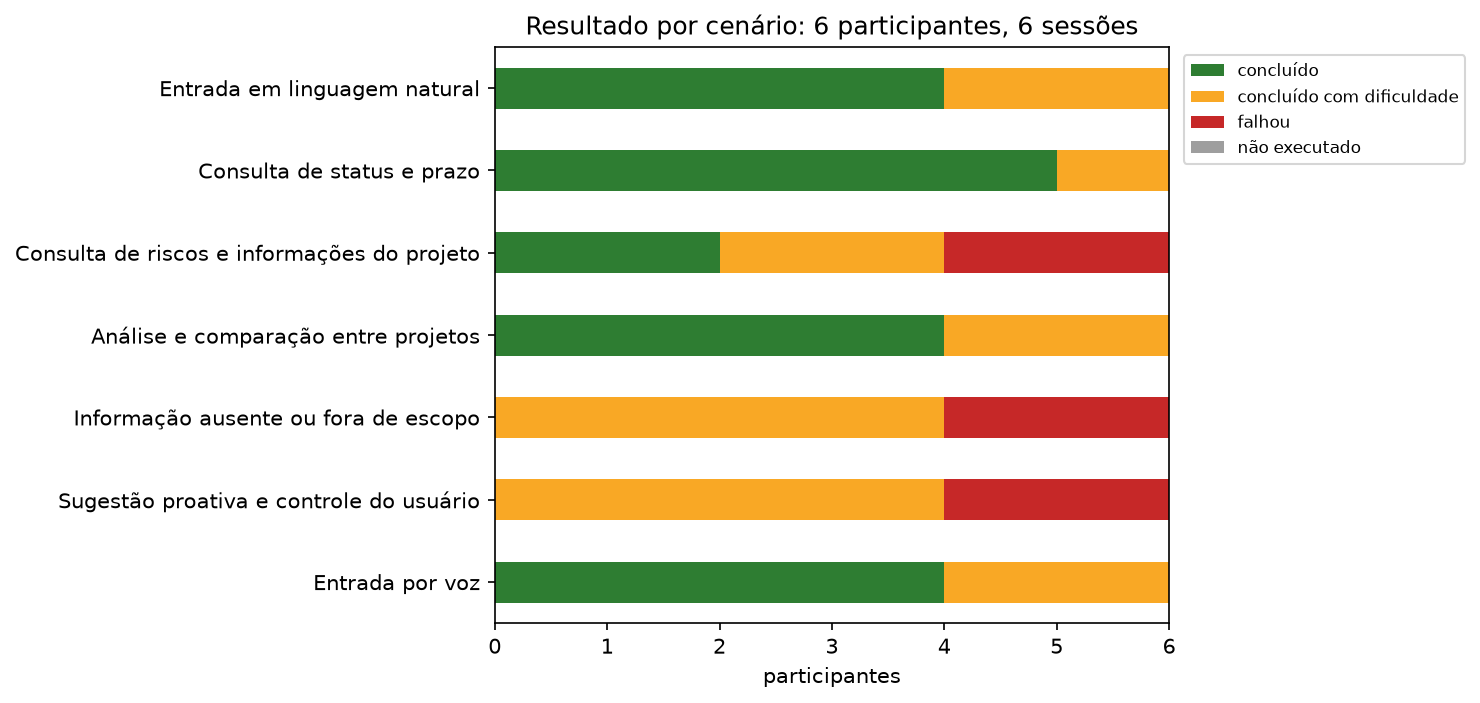
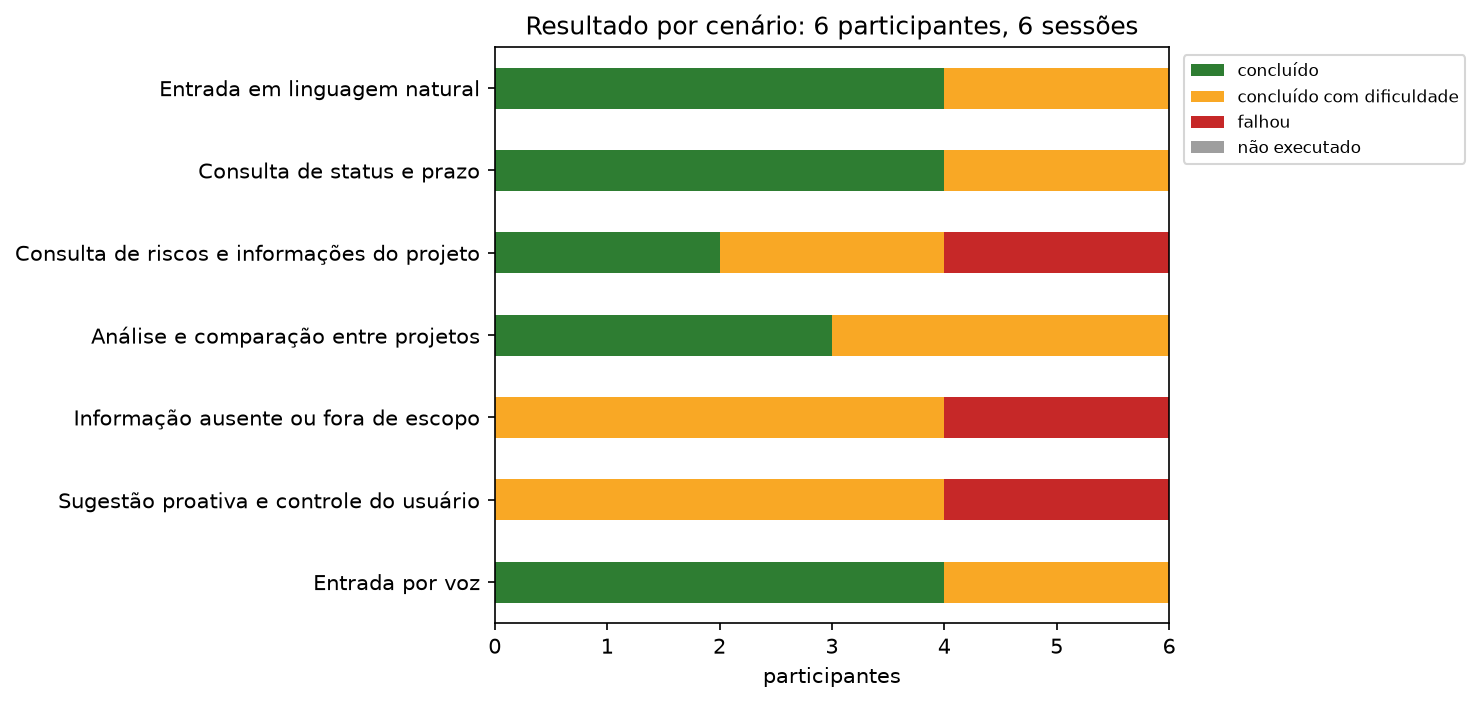
docs: corrigir inconsistências dos resultados de usabilidade (#236)

Changed region(s): [[0.6216, 0.2091, 0.7149, 0.2688], [0.5595, 0.4481, 0.6527, 0.5078]]

diff --git a/docs/Projeto.md b/docs/Projeto.md
@@ -5561,7 +5561,7 @@ Log da API na 3ª rodada, resumido sem identificadores ([`api-log-resumo.txt`](.
 | ID | Defeito | Tratamento |
 | --- | --- | --- |
 | DEF-RNF04-01 | Vigência, status e linha do extrato eram recuperados do banco e descartados antes do prompt; perguntas de cronograma recebiam "contexto insuficiente" | Corrigido em `build_rag_input`, com 10 testes de regressão; as perguntas afetadas passaram a responder as datas corretas |
-| DEF-RNF04-02 | Respostas truncadas pelo limite de tokens entregues como completas | Mecanismo confirmado nas rodadas do RNF05: 36 de 451 respostas (8,0%) na 2ª e 50 de 860 (5,8%) na 3ª terminaram por limite de tokens no caminho do OpenRouter, porque o raciocínio do modelo consome o mesmo orçamento de 512 tokens do texto. O adaptador passou a registrar cada ocorrência em log. Nenhuma das 35 respostas coletadas pelo Gemini direto terminou cortada. Depois do teste de usabilidade, em que uma resposta chegou vazia (Seção 9.3.2), o limite passou a 1024 tokens e a resposta interrompida passou a vir com um aviso ao usuário; no reteste, 0 de 38 respostas foram cortadas, contra 4 de 38 com o limite antigo, com cerca de 0,2 s a mais na mediana do tempo do modelo ([relatório](../src/backend/evidencias/reteste-truncamento/RELATORIO.md)). As rodadas do RNF05 foram medidas com o limite de 512 |
+| DEF-RNF04-02 | Respostas truncadas pelo limite de tokens entregues como completas | Mecanismo confirmado nas rodadas do RNF05: 36 de 451 respostas (8,0%) na 2ª e 50 de 860 (5,8%) na 3ª terminaram por limite de tokens no caminho do OpenRouter, porque o raciocínio do modelo consome o mesmo orçamento de 512 tokens do texto. O adaptador passou a registrar cada ocorrência em log. Nenhuma das 35 respostas coletadas pelo Gemini direto terminou cortada. Depois do teste de usabilidade, em que duas respostas chegaram vazias (Seção 9.3.2), o limite passou a 1024 tokens e a resposta interrompida passou a vir com um aviso ao usuário; no reteste, 0 de 38 respostas foram cortadas, contra 4 de 38 com o limite antigo, com cerca de 0,2 s a mais na mediana do tempo do modelo ([relatório](../src/backend/evidencias/reteste-truncamento/RELATORIO.md)). As rodadas do RNF05 foram medidas com o limite de 512 |
 | DEF-RNF05-01 | O Gemini no *Free Tier*, provedor da bancada, tem piso de 14,7 s a 37,7 s por chamada trivial, acima do teto do RNF05 | Característica da bancada, não do produto: o *Free Tier* é usado para não gerar custo, e o ambiente do Metrô usará o Copilot Studio com modelos GPT. As rodadas do RNF05 foram medidas com provedor pago. Ver Seção 3.2.2 |
 | DEF-RNF05-02 | A gravação da auditoria do RNF03 é síncrona e fica no caminho da resposta. Na 2ª rodada, sob carga, a distância entre o P95 do cliente e o do pipeline foi de 4,1 s, e, sem limite de tempo nas consultas ao banco, uma gravação presa segurou uma resposta por mais de 60 s | Aplicados antes da 3ª rodada: limite de 5 s por consulta ao banco (`statement_timeout`) e *keepalive* de TCP nas conexões, com 9 testes. Na 3ª rodada a distância caiu para 1,8 s, sem erro. A gravação fora do caminho da resposta, por fila ou tarefa em segundo plano, fica para a mensageria prevista na Sprint 5: muda a semântica da auditoria verificada nos testes do RNF03 e é decisão do grupo |
 | — | Cada requisição abria duas conexões novas com o Supabase, cerca de 1 s cada | Pool de conexões: de 1.209 ms para 599 ms por acesso, ou cerca de 1,2 s a menos por requisição, com qualquer provedor de LLM |
@@ -5681,7 +5681,7 @@ Registrada na Sprint 4, antes das sessões com os participantes.
 
 **Instrução do cenário 6.** A instrução anterior, "Observe se o agente sugere um próximo passo e se a sugestão depende da sua confirmação", antecipava ao participante exatamente o que o cenário quer observar: quem é avisado de que haverá uma sugestão procura por ela, e a etapa deixa de medir se a interface a comunica sozinha. A instrução passa a descrever só a tarefa: "Você vai participar de uma reunião sobre o projeto PRJ-0442. Use o agente para se preparar." Consultas sobre situação, prazos, riscos ou marcos do projeto fazem o agente oferecer um próximo passo que depende da confirmação do usuário, e o observador registra se o participante o percebe sem aviso. Uma segunda instrução, lida só depois, pede que o participante ajuste o agente para responder apenas o que foi perguntado, o que observa se ele encontra o controle da proatividade (RF10). O modo proatividade começa ligado em todas as sessões. As demais instruções da planilha descrevem a tarefa sem antecipar o comportamento observado e foram mantidas. Nas sessões da Sprint 4, a planilha ainda trazia a instrução original do cenário 6, e foi ela a lida aos participantes; o resultado desse cenário é lido com essa ressalva na Seção 9.3.2.
 
-**SUS como dado descritivo.** O SUS mede a percepção global de usabilidade e não aponta problemas específicos; com cinco participantes, a média ainda é instável, porque só se estabiliza por volta de 12 a 14 respondentes. Por isso o plano não fixa meta de SUS para aprovar o sistema. O resultado é publicado com a nota de cada participante, a mediana e a amplitude, ao lado do perfil e da familiaridade declarada, e é lido junto da observação das tarefas, que é o que mostra onde cada pessoa hesitou, errou ou pediu ajuda.
+**SUS como dado descritivo.** O SUS mede a percepção global de usabilidade e não aponta problemas específicos; com cinco ou seis participantes, a média ainda é instável, porque só se estabiliza por volta de 12 a 14 respondentes. Por isso o plano não fixa meta de SUS para aprovar o sistema. O resultado é publicado com a nota de cada participante, a mediana e a amplitude, ao lado do perfil e da familiaridade declarada, e é lido junto da observação das tarefas, que é o que mostra onde cada pessoa hesitou, errou ou pediu ajuda.
 
 **Perfil de cada participante.** Cada participante recrutado é registrado com a vaga de perfil que preenche, a familiaridade com tecnologia e com agentes conversacionais e a faixa etária, sem dados que o identifiquem. A amostra precisa reunir ao menos uma pessoa de familiaridade baixa e uma de familiaridade alta com agentes conversacionais.
 
@@ -5712,12 +5712,12 @@ A sessão conduzida na bancada compartilhada ficou registrada na auditoria do RN
 
 | Cenário | ✅ Concluído | ⚠ Com dificuldade | ❌ Falhou | Leitura |
 | --- | :---: | :---: | :---: | --- |
-| 1. Entrada em linguagem natural | 4 | 2 | 0 | A pergunta em linguagem comum funcionou sem comando técnico; os dois participantes de familiaridade baixa procuraram um menu de comandos antes de digitar |
-| 2. Consulta de status e prazo | 5 | 1 | 0 | "me fale o prazo do projeto da linha azul" trouxe a vigência de 24/08 a 28/08/2026, com a fonte citada; um participante não identificou a fonte dentro do texto |
+| 1. Entrada em linguagem natural | 4 | 2 | 0 | A pergunta em linguagem comum funcionou sem comando técnico; entre os dois participantes de familiaridade baixa, um procurou um menu de comandos antes de digitar e o outro começou com uma pergunta de uma palavra e a reformulou |
+| 2. Consulta de status e prazo | 4 | 2 | 0 | "me fale o prazo do projeto da linha azul" trouxe a vigência de 24/08 a 28/08/2026, com a fonte citada; dois participantes não perceberam a fonte na primeira leitura, e um deles procurou o prazo no meio do texto |
 | 3. Consulta de riscos e informações do projeto | 2 | 2 | 2 | Duas respostas chegaram vazias, só com o aviso de dados fictícios (O7), e duas chegaram cortadas no meio da frase (O5) |
-| 4. Análise e comparação entre projetos | 4 | 2 | 0 | O agente declarou que a base tem um único projeto e os participantes seguiram; em uma sessão o comunicado de serviço foi tratado como projeto (O4) |
+| 4. Análise e comparação entre projetos | 3 | 3 | 0 | O agente declarou que a base tem um único projeto e os participantes seguiram; em uma sessão o comunicado de serviço foi tratado como projeto (O4), em outra o agente sugeriu uma comparação logo depois de recusá-la (O3), e um participante demorou a escolher os projetos por não saber o que havia na base |
 | 5. Informação ausente ou fora de escopo | 0 | 4 | 2 | O limite foi declarado para a Linha 5, mas perguntas curtas sobre temas que estão na base foram recusadas (O1); dois participantes só concluíram depois da dica do moderador |
-| 6. Sugestão proativa e controle do usuário | 0 | 4 | 2 | As sugestões aceitas responderam que as fontes eram insuficientes (O2) e o controle da proatividade não foi localizado sem ajuda por dois participantes (O8) |
+| 6. Sugestão proativa e controle do usuário | 0 | 4 | 2 | As sugestões aceitas responderam que as fontes eram insuficientes (O2) e dois participantes só concluíram a etapa de controle depois da dica do moderador (O8) |
 | 7. Entrada por voz | 4 | 2 | 0 | A transcrição preservou a intenção em todas as sessões (O6); dois participantes hesitaram em acionar o botão de áudio |
 
 Quatro dicas do moderador foram necessárias, todas nos cenários 5 e 6 e todas com participantes de familiaridade média ou baixa com agentes conversacionais. As etapas com mais problemas foram "entender a orientação recebida" no cenário 5 e "avaliar a utilidade da sugestão" no cenário 6, com seis registros de dificuldade ou falha cada.
@@ -5732,16 +5732,16 @@ Quatro dicas do moderador foram necessárias, todas nos cenários 5 e 6 e todas 
 
 | ID | Cenário | Severidade | Ocorrido | Tratamento |
 | --- | :---: | :---: | --- | --- |
-| O1 | 5 | média | "fale sobre os Objetos perdidos", "fale sobre o Bilhete digital" e "Bilhete digital", temas que estão na base, foram recusados pelo classificador, com confiança de 42% a 50%, e a orientação pediu para indicar um projeto; a recusa se repetiu nas seis sessões | Aceitar perguntas curtas sobre temas operacionais e orientar a reformulação com exemplos, sem exigir um projeto |
+| O1 | 5 | alta | "fale sobre os Objetos perdidos", "fale sobre o Bilhete digital" e "Bilhete digital", temas que estão na base, foram recusados pelo classificador, com confiança de 42% a 50%, e a orientação pediu para indicar um projeto; a recusa se repetiu nas seis sessões | Aceitar perguntas curtas sobre temas operacionais e orientar a reformulação com exemplos, sem exigir um projeto |
 | O2 | 6 | média | As sugestões foram oferecidas sem sustentação nas fontes: depois de uma pergunta sobre a Linha 5, o agente sugeriu identificar o gargalo do projeto e, aceita a sugestão, respondeu que as fontes eram insuficientes | Oferecer a sugestão só quando as fontes recuperadas sustentarem a ação |
 | O3 | 4 | baixa | Depois de declarar que só existe um projeto, o agente sugeriu adaptar a prática do projeto com melhor desempenho | Não oferecer sugestão comparativa quando a comparação foi recusada |
 | O4 | 4 | baixa | A resposta tratou o comunicado de serviço como projeto, e o participante passou a comparar comunicado com projeto | Indicar no prompt a entidade de cada fonte |
 | O5 | 7 | média | Respostas terminaram cortadas no meio da frase, pelo limite de tokens | Corrigido e retestado, com O7 |
 | O6 | 7 | cosmética | A transcrição registrou "Eu sou eu perdi um objeto"; a intenção foi preservada | — |
 | O7 | 3 | alta | Duas respostas chegaram vazias, só com o aviso de dados fictícios: o raciocínio do modelo consumiu o limite de 512 tokens antes do texto | Corrigido: limite de 1024 tokens e aviso ao usuário quando a resposta for interrompida. No reteste, 0 de 38 respostas cortadas, contra 4 de 38 com o limite antigo ([relatório](../src/backend/evidencias/reteste-truncamento/RELATORIO.md)) |
-| O8 | 6 | média | O controle da proatividade não foi localizado sem ajuda: dois participantes não encontraram onde pedir que o agente respondesse apenas o que foi perguntado | Tornar o controle da proatividade visível na própria conversa, junto da sugestão oferecida |
+| O8 | 6 | alta | O controle da proatividade e a confirmação da sugestão não foram percebidos sem ajuda: um participante não encontrou onde pedir que o agente respondesse apenas o que foi perguntado, e outro leu a sugestão como parte da resposta, sem perceber que era uma ação a confirmar | Tornar o controle da proatividade visível na própria conversa, junto da sugestão oferecida |
 
-O único defeito crítico, O7, foi corrigido e retestado. O1 a O4 e O8 entram como melhorias para a Sprint 5.
+O único defeito crítico, O7, foi corrigido e retestado. O1 e O8 são de severidade alta porque impediram a tarefa de dois participantes cada, que só concluíram a etapa depois da dica do moderador, mas não são defeitos críticos: nas duas, o agente não apresentou dado incorreto nem executou ação sem confirmação, e os outros quatro participantes concluíram o cenário. O1 a O4 e O8 entram como melhorias para a Sprint 5, com O1 e O8 à frente.
 
 **SUS.** As seis respostas, em ordem de envio, sem vínculo com os códigos dos participantes, porque o formulário não identifica quem respondeu:
 
@@ -5749,14 +5749,14 @@ O único defeito crítico, O7, foi corrigido e retestado. O1 a O4 e O8 entram co
 | --- | ---: | ---: | ---: | ---: | ---: | ---: |
 | SUS | 97,5 | 100,0 | 87,5 | 80,0 | 77,5 | 75,0 |
 
-Mediana de 83,75 e amplitude de 75 a 100, com média de 86,2 para seis respondentes. Como definido na Seção 9.3.1, o SUS é dado descritivo e não critério de aprovação. A percepção declarada é mais favorável do que a observação das tarefas sugere: nenhum participante concluiu os cenários 5 e 6 sem dificuldade, houve perguntas recusadas (O1), sugestões que não entregaram o que ofereciam (O2) e duas respostas vazias (O7). A amplitude de 25 pontos acompanha a distância entre as notas mais altas e as mais baixas, mas o formulário não identifica quem respondeu, e por isso não é possível associá-la à familiaridade declarada.
+Mediana de 83,75 e amplitude de 75 a 100, com média de 86,25 para seis respondentes. Como definido na Seção 9.3.1, o SUS é dado descritivo e não critério de aprovação. A percepção declarada é mais favorável do que a observação das tarefas sugere: nenhum participante concluiu os cenários 5 e 6 sem dificuldade, houve perguntas recusadas (O1), sugestões que não entregaram o que ofereciam (O2) e duas respostas vazias (O7). A amplitude de 25 pontos acompanha a distância entre as notas mais altas e as mais baixas, mas o formulário não identifica quem respondeu, e por isso não é possível associá-la à familiaridade declarada.
 
 **Abrangência e limitações.**
 
 | Limitação | Efeito sobre a leitura |
 | --- | --- |
 | Seis sessões, um participante em cada | Cada cenário tem seis observações independentes, o que permite distinguir dificuldade individual de comportamento do sistema, mas não sustenta estatística |
-| Amostra concentrada em um perfil | Seis estudantes de tecnologia da mesma faixa etária; a familiaridade com agentes conversacionais varia entre baixa, média e alta, mas os perfis planejados de gestão de projetos, análise de indicadores e ferramentas Microsoft não foram cobertos |
+| Amostra concentrada em um perfil | Seis estudantes de tecnologia da mesma faixa etária; a familiaridade com agentes conversacionais varia entre baixa, média e alta, e a vaga de baixa familiaridade foi coberta por P3 e P6. As vagas de gestão de projetos, análise de indicadores e ferramentas Microsoft ficaram vazias: as respostas não foram avaliadas por quem acompanha status, riscos e indicadores na rotina, nem por usuários do ambiente Microsoft previsto para o agente |
 | Instrução original do cenário 6 | A instrução lida antecipava a sugestão proativa; a etapa "ler a sugestão" não mede se a interface a comunica sozinha |
 | SUS sem vínculo com o participante | O formulário é anônimo, e a nota não pode ser cruzada com a familiaridade declarada nem com o desempenho observado |
 | SUS respondido ao final da rodada | As seis respostas chegaram em nove minutos, depois da última sessão, e não logo após a sessão de cada participante; quem foi atendido primeiro respondeu com mais tempo decorrido |

diff --git a/docs/usabilidade/README.md b/docs/usabilidade/README.md
@@ -46,7 +46,7 @@ consentimento assinado, guardado pelo moderador fora do repositório.
 
 | Coluna | Valores |
 | --- | --- |
-| `vaga_perfil` | a vaga de [`perfis-participantes.md`](perfis-participantes.md) que o participante preenche |
+| `vaga_perfil` | a vaga de [`perfis-participantes.md`](perfis-participantes.md) que o participante preenche; quando ele não corresponde a nenhuma das vagas de perfil profissional, o perfil real, como `estudante_de_tecnologia`, e as vagas que ficaram vazias são declaradas na Seção 9.3.2 |
 | `externo_a_turma` | `sim` — exigência para todos |
 | `familiaridade_tecnologica`, `familiaridade_agentes` | `baixa`, `media` ou `alta`, declarada pelo participante; `nao_informada` quando não foi coletada |
 | `faixa_etaria` | `18-29`, `30-39`, `40-49`, `50-59` ou `60+` |

diff --git a/docs/usabilidade/questionario-sus.md b/docs/usabilidade/questionario-sus.md
@@ -62,7 +62,7 @@ tarefas, e não como critério de aprovação do sistema. Não há meta de SUS.
   sessões acontecem na interface web da bancada, porque o ambiente Teams do Metrô
   não está acessível ao grupo. A resposta mede a expectativa do participante, e
   não uma experiência que ele teve.
-- **Com cinco participantes, a média é instável.** Cinco pessoas bastam para revelar
+- **Com cinco ou seis participantes, a média é instável.** Cinco pessoas bastam para revelar
   boa parte dos problemas recorrentes (Nielsen e Landauer, 1993), mas a média do SUS
   só se estabiliza por volta de 12 a 14 respondentes (Tullis e Stetson, 2004).
 
